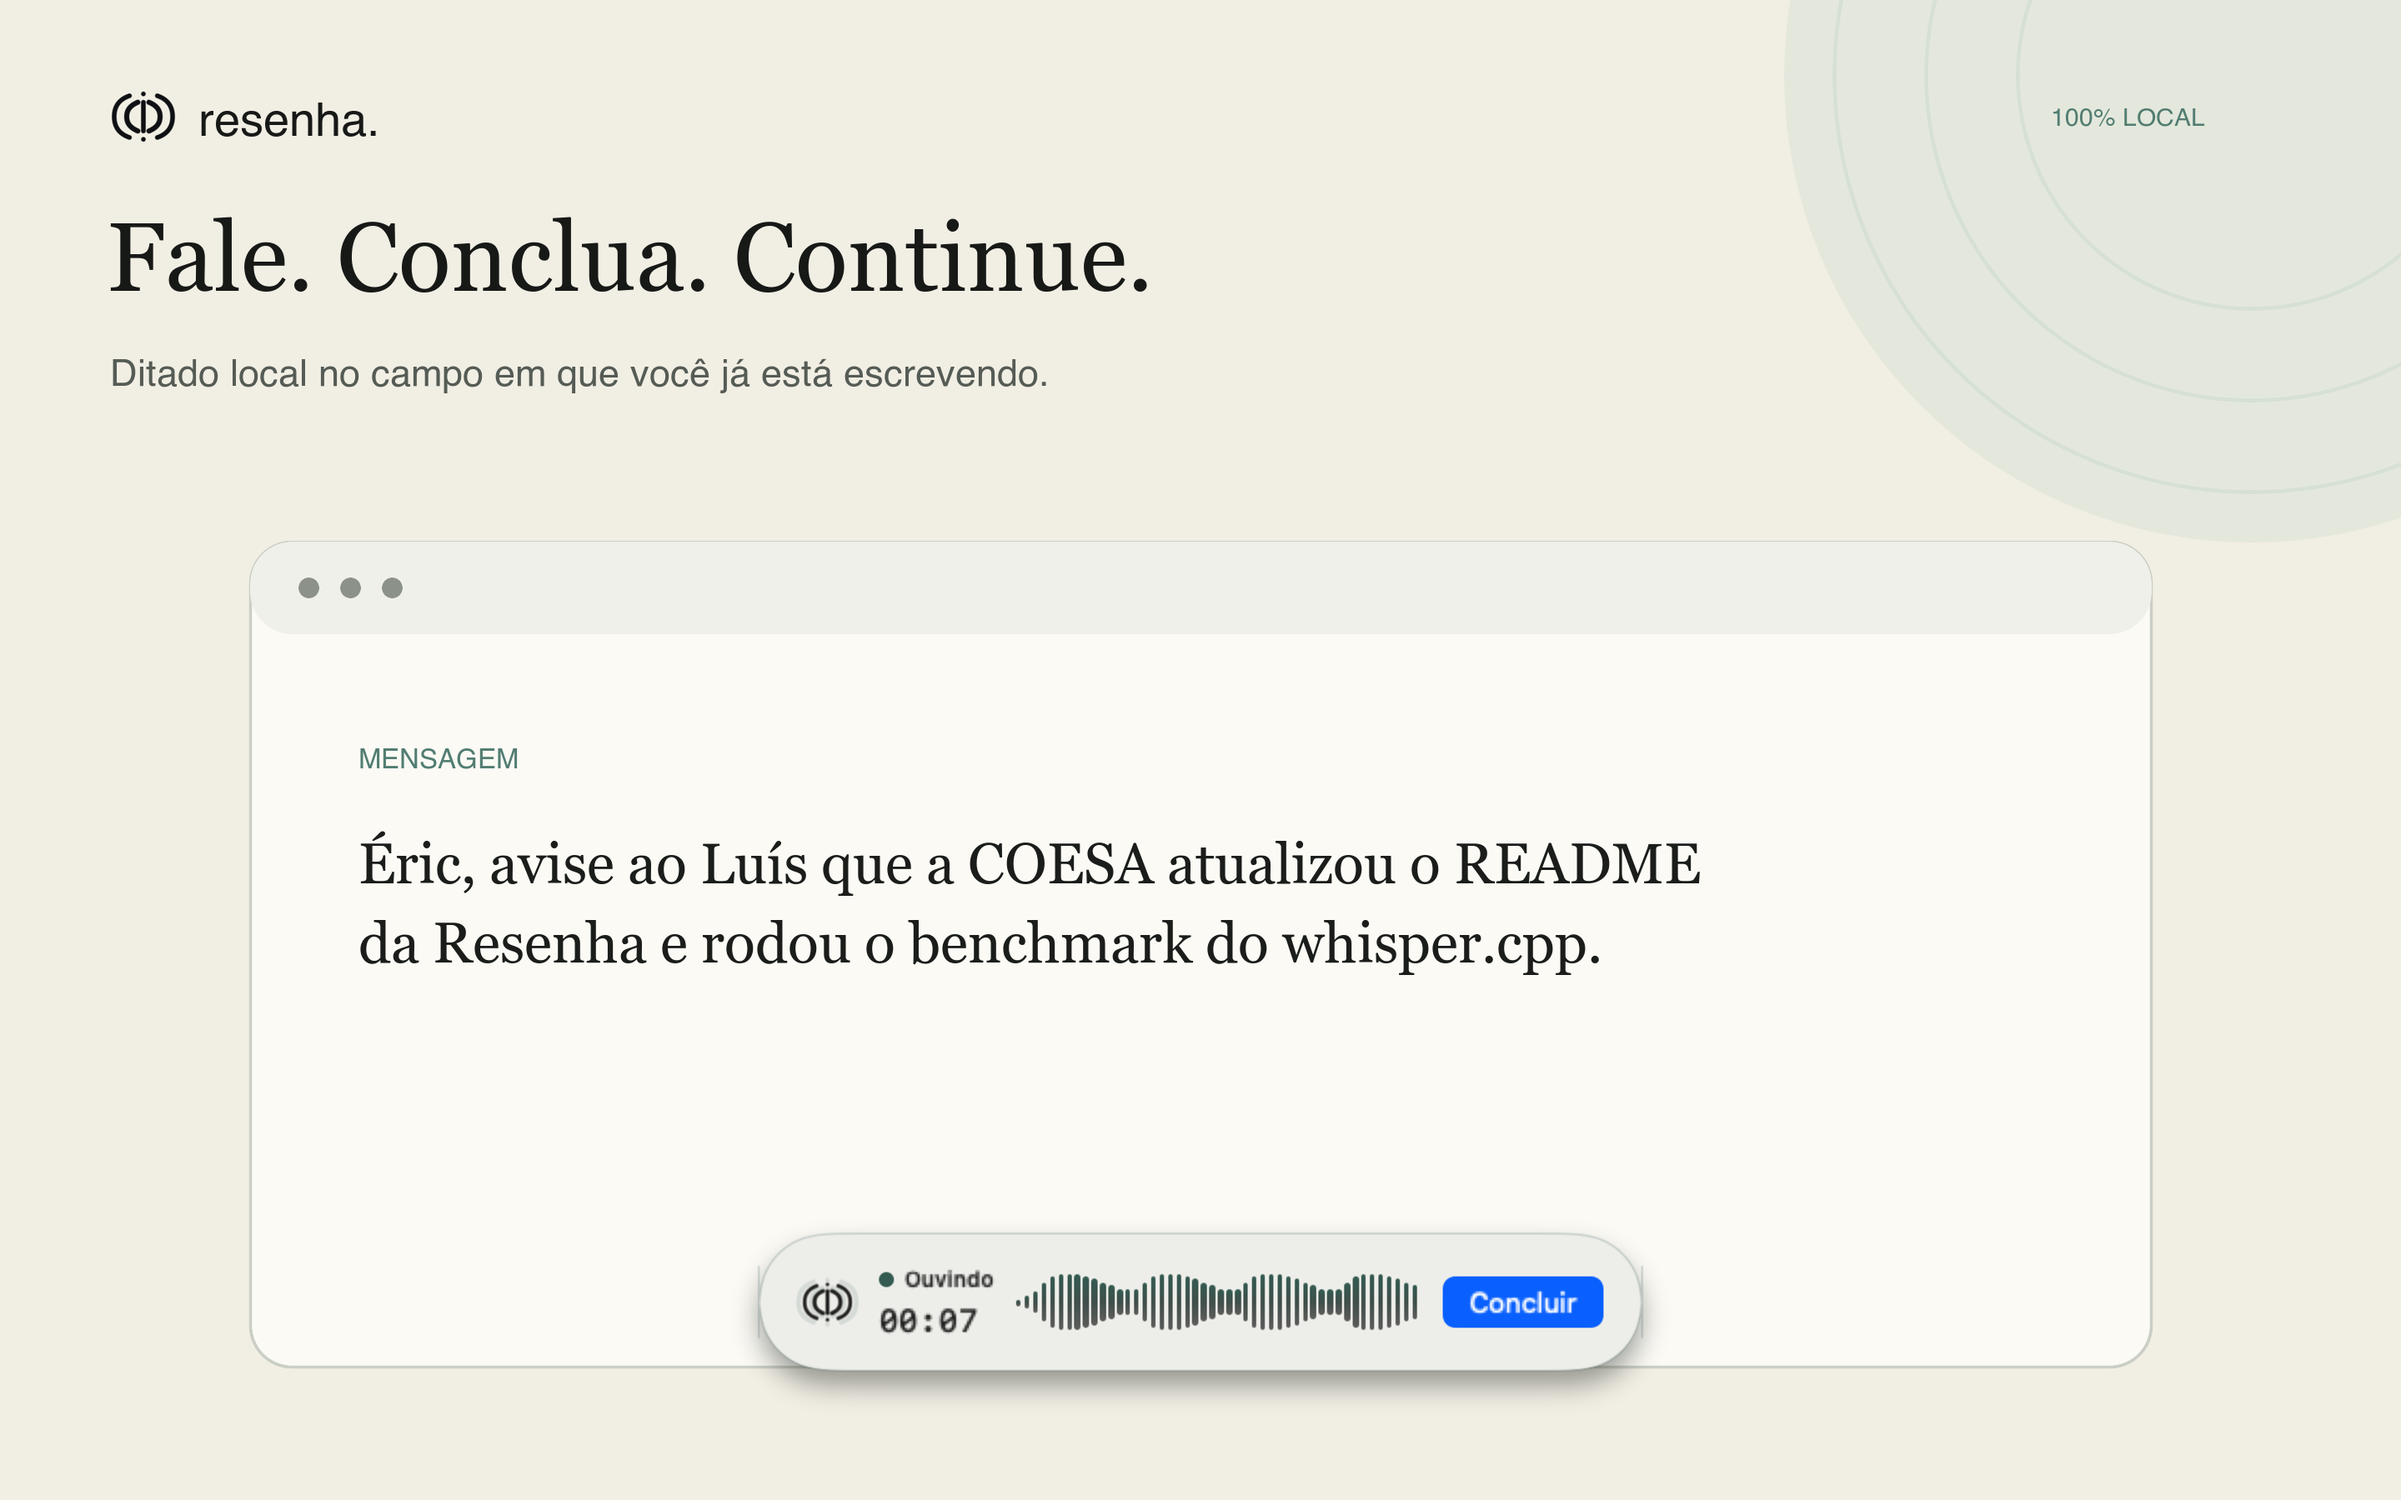
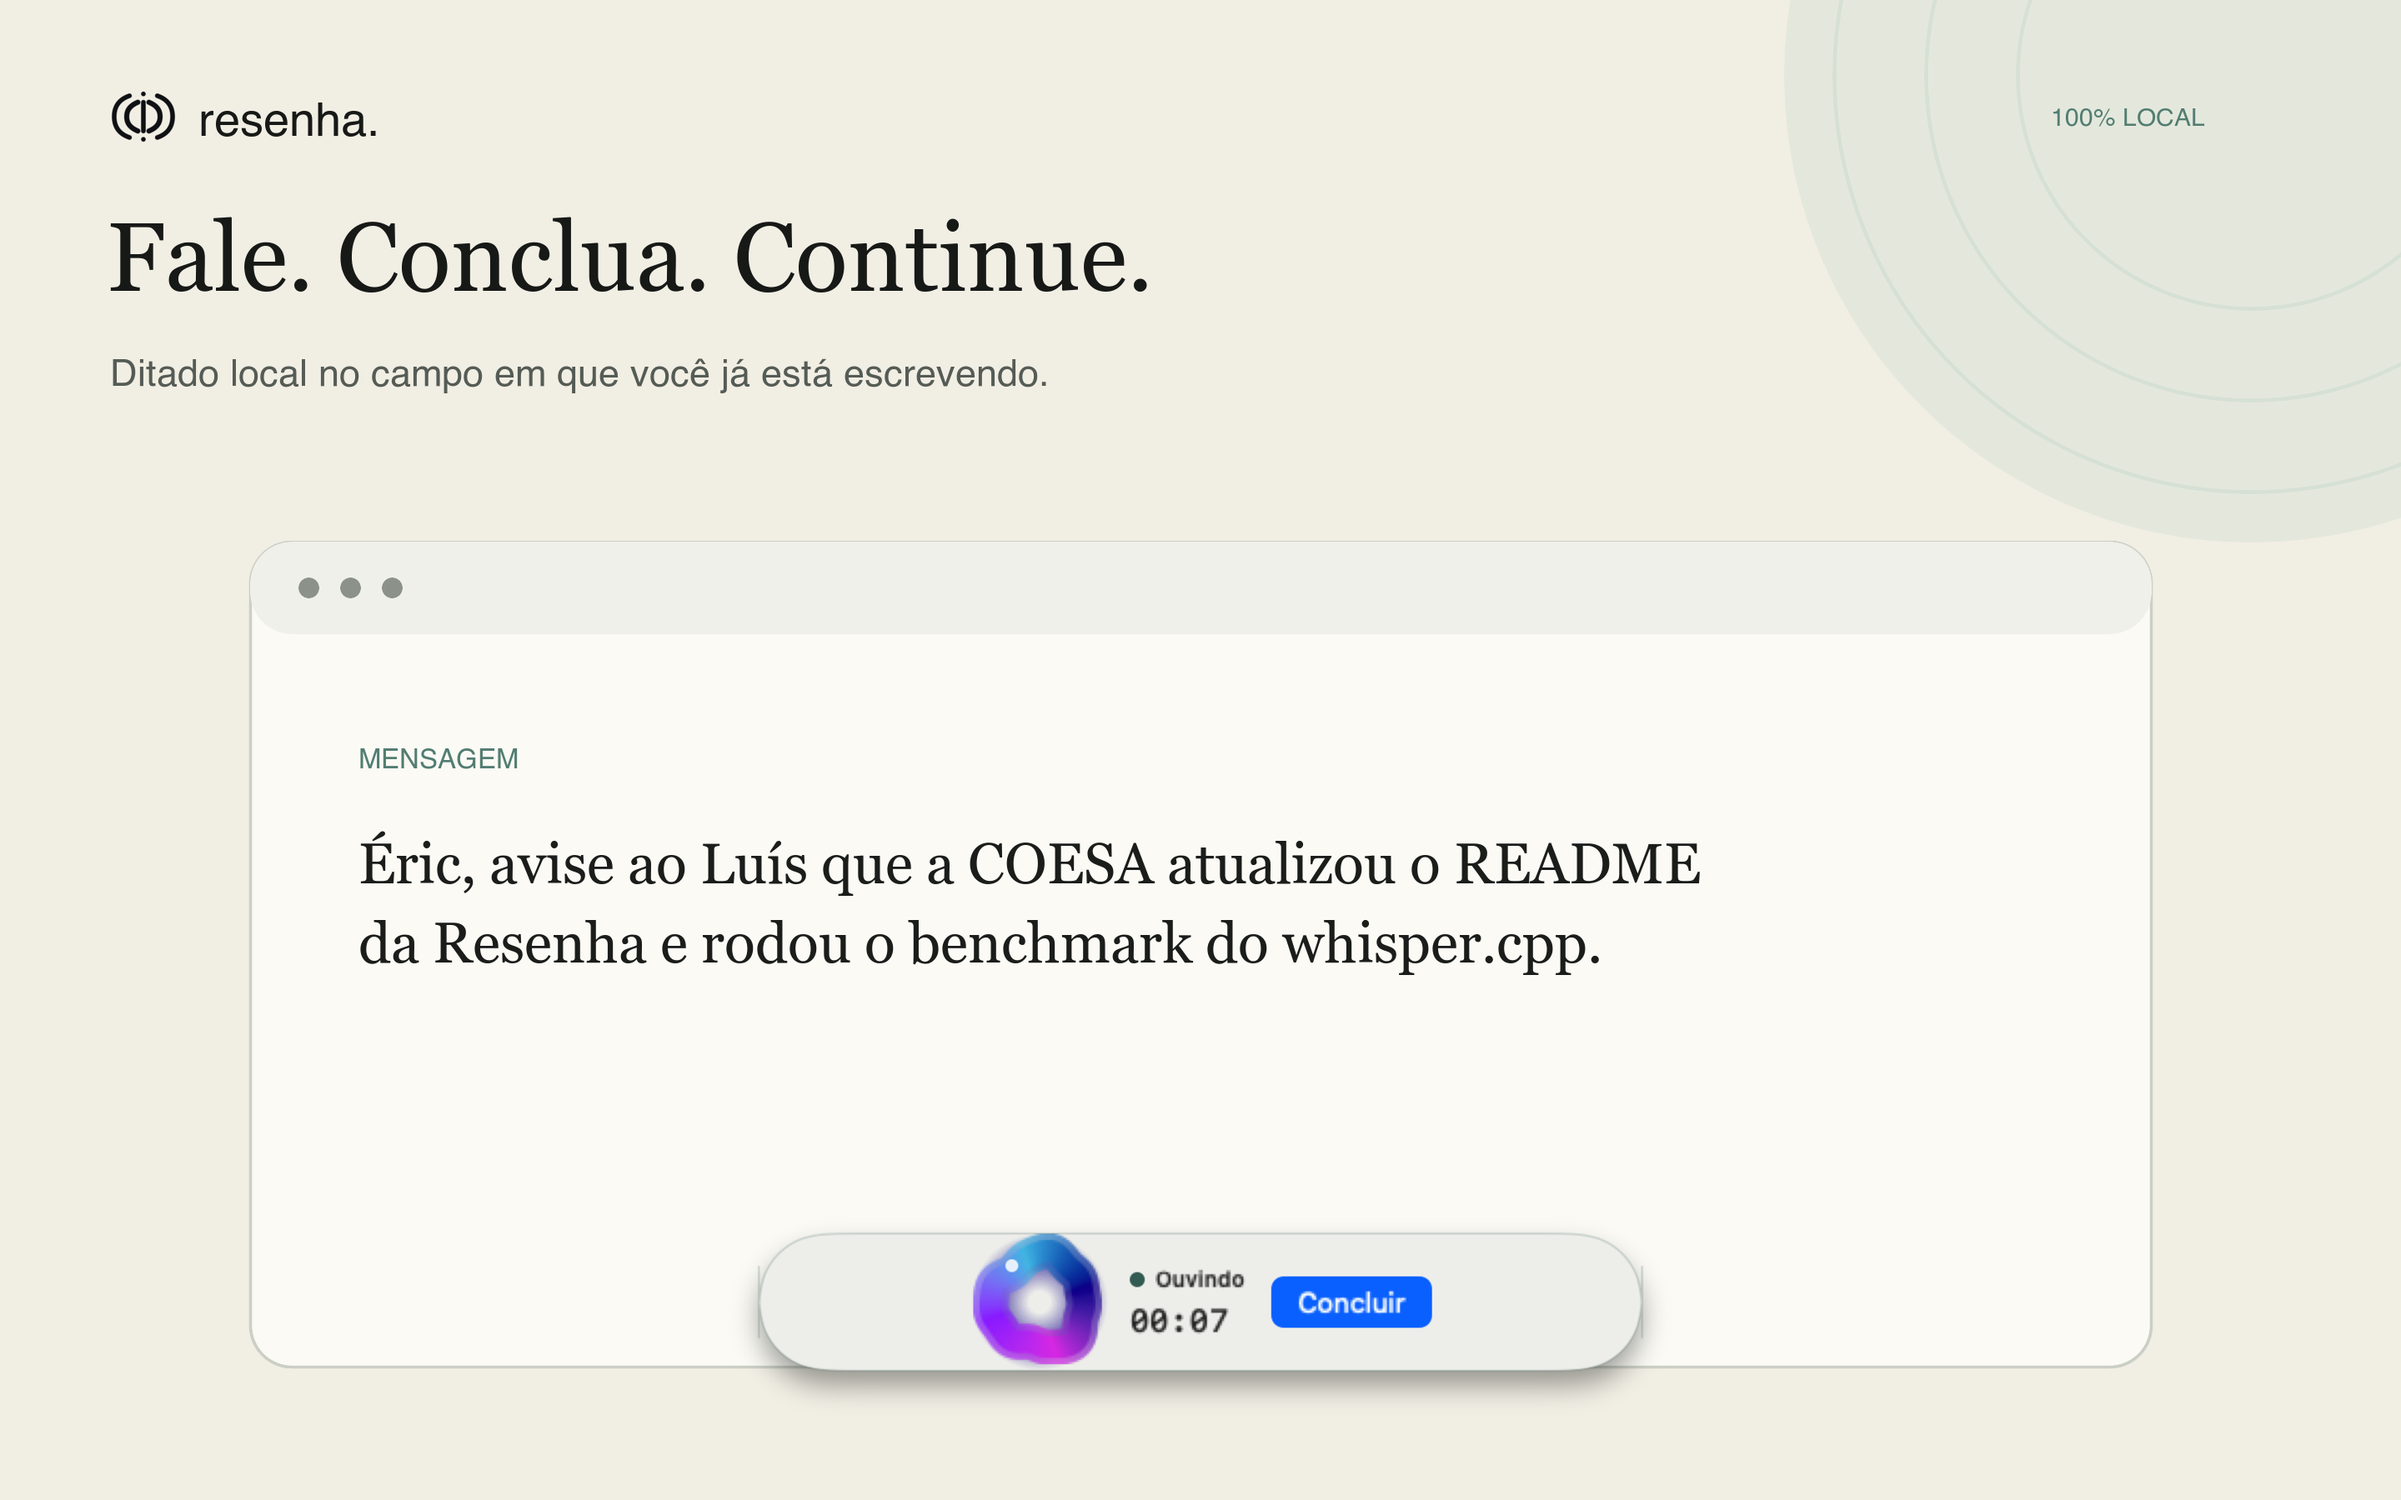
Port voice orb to native recording HUD

Changed region(s): [[0.3438, 0.8089, 0.6875, 0.9333]]

diff --git a/Sources/WhisperKey/RecordingWaveformView.swift b/Sources/WhisperKey/RecordingWaveformView.swift
@@ -60,26 +60,12 @@ struct RecordingMeter: Equatable {
 struct RecordingWaveformView: View {
     let meter: RecordingMeter
     var fixtureReduceMotion: Bool? = nil
-    var accessibilityLayout = false
     @Environment(\.accessibilityReduceMotion) private var reduceMotion
 
     var body: some View {
-        Group {
-            if accessibilityLayout {
-                VStack(alignment: .leading, spacing: 8) {
-                    HStack(spacing: 10) {
-                        resonatingMark
-                        listeningSummary
-                    }
-                    waveform
-                }
-            } else {
-                HStack(spacing: 10) {
-                    resonatingMark
-                    listeningSummary
-                    waveform
-                }
-            }
+        HStack(spacing: 10) {
+            voiceOrb
+            listeningSummary
         }
         .foregroundStyle(.primary)
         .transaction { $0.animation = nil }
@@ -99,41 +85,75 @@ struct RecordingWaveformView: View {
         .fixedSize(horizontal: true, vertical: true)
     }
 
-    private var waveform: some View {
-        let levels = meter.displayLevels(reduceMotion: fixtureReduceMotion ?? reduceMotion)
-        return HStack(spacing: 1.5) {
-            ForEach(0..<RecordingMeter.barCount, id: \.self) { index in
-                Capsule()
-                    .fill(LinearGradient(
-                        colors: [Color.primary.opacity(0.72), ResenhaTheme.signal],
-                        startPoint: .bottom,
-                        endPoint: .top
-                    ))
-                    .frame(maxWidth: .infinity)
-                    .frame(height: 3 + CGFloat(levels[index]) * 29)
-            }
+    private var voiceOrb: some View {
+        let shouldReduceMotion = fixtureReduceMotion ?? reduceMotion
+        return TimelineView(.animation(minimumInterval: 1.0 / 30, paused: shouldReduceMotion)) { timeline in
+            VoiceOrbView(
+                level: shouldReduceMotion ? 0 : RecordingResonance.normalized(meter.currentLevel),
+                time: shouldReduceMotion ? 0 : timeline.date.timeIntervalSinceReferenceDate.truncatingRemainder(dividingBy: 10_000)
+            )
         }
-        .frame(maxWidth: .infinity)
-        .frame(height: 32)
+        .frame(width: 64, height: 64)
+    }
+}
+
+private struct VoiceOrbRing: Shape {
+    let level: CGFloat
+    let time: TimeInterval
+
+    func path(in rect: CGRect) -> Path {
+        let center = CGPoint(x: rect.midX, y: rect.midY)
+        let baseRadius = min(rect.width, rect.height) * 0.34
+        let wave = 1.5 + level * 4
+        let phase = CGFloat(time)
+        var path = Path()
+        for index in 0...120 {
+            let angle = CGFloat(index) * .pi / 60
+            let radius = baseRadius + wave * (
+                0.55 * sin(angle * 3 + phase * 1.3) +
+                0.30 * sin(angle * 5 - phase * 0.8) +
+                0.15 * sin(angle * 9 + phase * 1.7)
+            )
+            let point = CGPoint(x: center.x + radius * cos(angle), y: center.y + radius * sin(angle))
+            if index == 0 { path.move(to: point) } else { path.addLine(to: point) }
+        }
+        path.closeSubpath()
+        return path
+    }
+}
+
+private struct VoiceOrbView: View {
+    let level: CGFloat
+    let time: TimeInterval
+
+    private var colors: [Color] {
+        [Color(red: 0.61, green: 0.26, blue: 1),
+         Color(red: 0.30, green: 0.76, blue: 0.91),
+         Color(red: 0.06, green: 0.08, blue: 0.60),
+         Color(red: 0.88, green: 0.30, blue: 0.91),
+         Color(red: 0.61, green: 0.26, blue: 1)]
     }
 
-    private var resonatingMark: some View {
-        let shouldReduceMotion = fixtureReduceMotion ?? reduceMotion
-        return ZStack {
-            Image("ResenhaMark")
-                .resizable()
-                .renderingMode(.template)
-                .scaledToFit()
-                .foregroundStyle(ResenhaTheme.signal)
-                .opacity(RecordingResonance.haloOpacity(level: meter.currentLevel, reduceMotion: shouldReduceMotion))
-                .scaleEffect(RecordingResonance.haloScale(level: meter.currentLevel, reduceMotion: shouldReduceMotion))
-            Image("ResenhaMark")
-                .resizable()
-                .renderingMode(.template)
-                .scaledToFit()
-                .foregroundStyle(.primary)
-                .scaleEffect(RecordingResonance.markScale(level: meter.currentLevel, reduceMotion: shouldReduceMotion))
+    var body: some View {
+        let phase = CGFloat(time)
+        let gradient = AngularGradient(colors: colors, center: .center, angle: .radians(time * 0.7))
+        ZStack {
+            Circle()
+                .fill(RadialGradient(colors: [.clear, colors[2].opacity(0.65), .clear],
+                                     center: .center, startRadius: 5, endRadius: 32))
+            VoiceOrbRing(level: level, time: time)
+                .stroke(gradient, lineWidth: 15 + level * 4)
+                .blur(radius: 6)
+                .opacity(0.7)
+            VoiceOrbRing(level: level, time: time)
+                .stroke(gradient, lineWidth: 9 + level * 3)
+            Circle()
+                .fill(.white.opacity(0.85))
+                .frame(width: 5 + level * 4, height: 5 + level * 4)
+                .blur(radius: 2)
+                .offset(x: 21 * cos(phase), y: 21 * sin(phase))
         }
-        .frame(width: 28, height: 28)
+        .frame(width: 64, height: 64)
+        .accessibilityHidden(true)
     }
 }

diff --git a/Tests/WhisperKeyTests/WhisperKeyTests.swift b/Tests/WhisperKeyTests/WhisperKeyTests.swift
@@ -1727,6 +1727,15 @@ final class WhisperKeyTests: XCTestCase {
                     storeView.layoutSubtreeIfNeeded()
                     let storeBitmap = try XCTUnwrap(storeView.bitmapImageRepForCachingDisplay(in: storeView.bounds))
                     storeView.cacheDisplay(in: storeView.bounds, to: storeBitmap)
+                    let coloredPixels = (0..<storeBitmap.pixelsHigh).reduce(0) { count, y in
+                        count + (0..<(storeBitmap.pixelsWide / 2)).reduce(0) { rowCount, x in
+                            guard let color = storeBitmap.colorAt(x: x, y: y)?.usingColorSpace(.deviceRGB) else {
+                                return rowCount
+                            }
+                            return rowCount + (color.blueComponent > 0.45 && color.saturationComponent > 0.35 ? 1 : 0)
+                        }
+                    }
+                    XCTAssertGreaterThan(coloredPixels, 500, "O orb precisa aparecer no modal e na captura da loja")
                     let storeData = try XCTUnwrap(storeBitmap.representation(using: .png, properties: [:]))
                     try storeData.write(to: directory.appendingPathComponent("hud-store-listening-light.png"))
                 }

diff --git a/Sources/WhisperKey/FloatingStatusView.swift b/Sources/WhisperKey/FloatingStatusView.swift
@@ -134,8 +134,7 @@ struct FloatingStatusView: View {
                 HStack(spacing: 12) {
                     RecordingWaveformView(
                         meter: model.recording,
-                        fixtureReduceMotion: fixtureReduceMotion,
-                        accessibilityLayout: resolvedDynamicTypeSize.isAccessibilitySize
+                        fixtureReduceMotion: fixtureReduceMotion
                     )
                     if let finishRecording {
                         Button("Concluir", action: finishRecording)

diff --git a/AppStore/metadata/submission-pt-BR.md b/AppStore/metadata/submission-pt-BR.md
@@ -8,7 +8,7 @@
 - SKU: `resenha-macos-1`
 - Plataforma: macOS
 - Versão: `1.0.0`
-- Build candidato mínimo: `5` (`2` foi rejeitado; `3` não inclui o link de privacidade no app; `4` não tem o botão Concluir)
+- Build candidato mínimo: `6` (`2` foi rejeitado; `3` não inclui o link de privacidade no app; `4` não tem o botão Concluir; `5` não inclui o orb de voz)
 - Preço: grátis
 - Disponibilidade: todos os territórios elegíveis
 - Lançamento: manual após aprovação; confirmar no App Store Connect antes de submeter
@@ -54,5 +54,5 @@
 1. Acordos Apple vigentes e app record reservado.
 2. Certificados `Apple Distribution` e `Mac Installer Distribution` disponíveis.
 3. Archive Release assinado, exportado e validado sem avisos.
-4. Build processado e smoke testado via TestFlight/App Store Connect.
+4. Build processado no App Store Connect e pacote validado localmente.
 5. Metadados conferidos no painel antes de `Submit for Review`.
